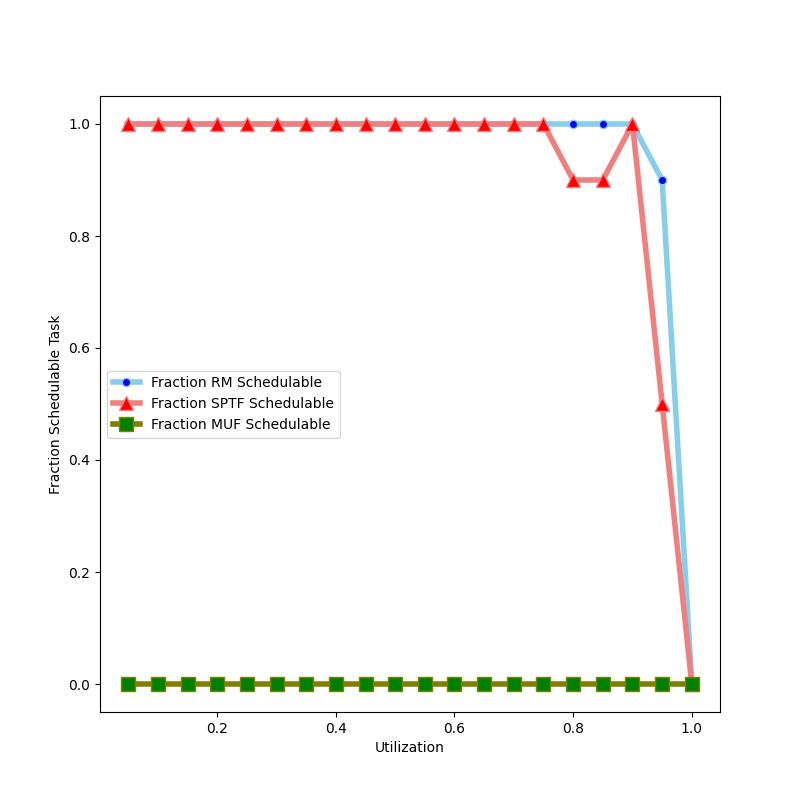
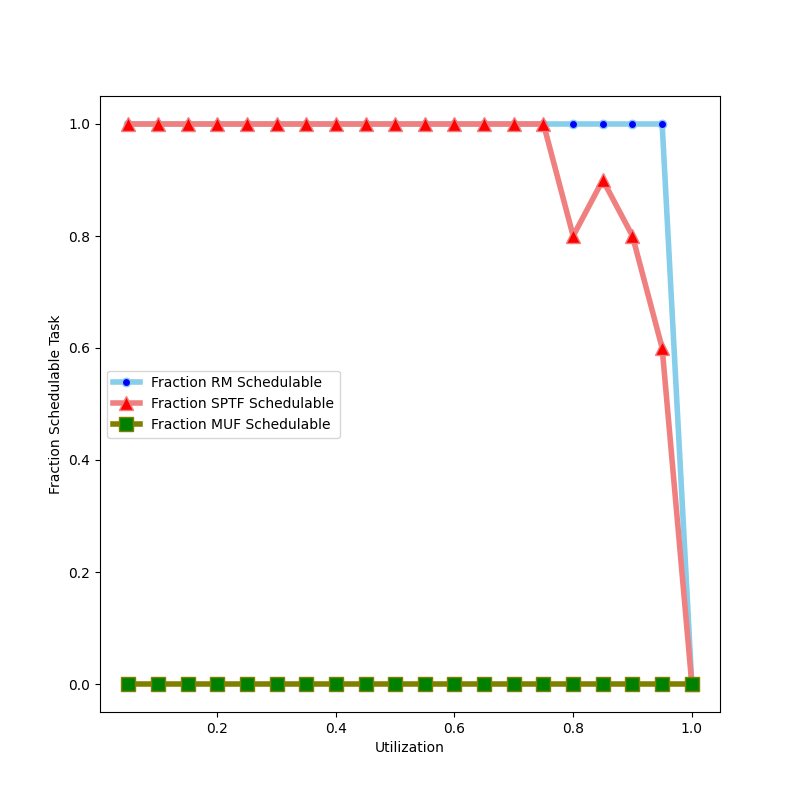
switch to log method for random generation

Changed region(s): [[0.6562, 0.125, 0.875, 0.8125]]

diff --git a/driver.py b/driver.py
@@ -3,6 +3,7 @@ from random_vector_generator import *
 from task_set import *
 import matplotlib.pyplot as plt
 import math
+from job import Job
 
 def RTASchedulable(priority_sorted_task_set):
 
@@ -54,6 +55,96 @@ def MUF_RTA_Schedulable(task_set):
     return RTASchedulable(task_set)
 
 
+# def Simulation(n, task_set):
+
+#     num_time_units = 20
+#     arrived_jobs
+#     for t in range(num_time_units + 1):
+        
+
+# def RM_Simulation(n, task_set):
+#     # Sort tasks with ascending order of periods
+#     task_set.sort(key=lambda task: task.Period)
+#     return Simulation(n, task_set)
+
+# def SPTF_Simulation(n, task_set):
+#     # Sort tasks with ascending order of execution times
+#     task_set.sort(key=lambda task: task.WCET)
+#     return Simulation(n, task_set)
+
+# def MUF_Simulation(n, task_set):
+#     # Sort tasks with descending order of utilization
+#     task_set.sort(key=lambda task: task.Utilization, reverse=True)
+#     return Simulation(n, task_set)
+
+# def simulation():
+
+#     # num_tasks_test_arr = [16]
+#     # num_tasks_test_arr = [8, 16, 32, 64]
+#     task_set_utilizations = [round(0.10 * i, 2) for i in range(1, 11)]
+
+#     num_task_sets = 100 # For Testing
+#     num_time_units = 100000
+
+#     # num_task_sets = 100000
+
+#     num_tasks = 2
+#     print("Num Tasks: {}".format(num_tasks))
+
+#     fraction_RM_successful = [0 for i in range(1, 21)]
+#     fraction_SPTF_successful = [0 for i in range(1, 21)]
+#     fraction_MUF_successful = [0 for i in range(1, 21)]
+    
+#     for j in range(len(task_set_utilizations)):
+
+#         utilization = task_set_utilizations[j]
+#         print("Utilization: {}\n".format(utilization))
+
+#         print("Generating Task Sets")
+#         scatter_arr = np.zeros(shape=(num_task_sets, num_tasks))
+
+#         # Create a list of task sets for current number of tasks        
+#         task_sets = []
+#         for k in range(num_task_sets):
+#             scatter_arr[k] = getUniformVector(num_tasks)
+#             task_sets.append(getTaskSet(scatter_arr[k], utilization))
+
+
+#         print("Start Testing Schedulability at current Utilization")
+#         num_successful_RM_completions = 0
+#         num_successful_SPTF_completions = 0
+#         num_successful_MUF_completions = 0
+#         for l in range(num_task_sets):
+#             num_successful_RM_completions += RM_RTA_Schedulable(num_tasks, task_sets[l])
+#             num_successful_SPTF_completions += SPTF_RTA_Schedulable(num_tasks, task_sets[l])
+#             num_successful_MUF_completions += MUF_RTA_Schedulable(num_tasks, task_sets[l])
+
+    
+#         # fraction_RM_successful[j] = float(num_RM_Schedulable) / float(num_task_sets)
+#         # fraction_SPTF_successful[j] = float(num_SPTF_Schedulable) / float(num_task_sets)
+#         # fraction_MUF_successful[j] = float(num_MUF_Schedulable) / float(num_task_sets)
+
+#         # print("Fraction RM Schedulable: {}".format(round(fraction_RM_successful[j], 2)))
+#         # print("Fraction SPTF Schedulable: {}".format(round(fraction_SPTF_successful[j], 2)))
+#         # print("Fraction MUF Schedulable: {}".format(round(fraction_MUF_successful[j], 2)))
+
+#         print("\n-------------------------------------------\n")
+
+#     print("Saving figure for num tasks: {}".format(num_tasks))
+
+#     fig = plt.figure(figsize=(8, 8))
+#     ax = fig.add_subplot(111)
+#     ax.plot(task_set_utilizations, fraction_RM_successful, marker='.', markerfacecolor='blue', markersize=12, color='skyblue', linewidth=4, label="Fraction RM Schedulable")
+#     ax.plot(task_set_utilizations, fraction_SPTF_successful, marker='^',markerfacecolor='red', markersize=10, color='lightcoral', linewidth=4, label="Fraction SPTF Schedulable")
+#     ax.plot(task_set_utilizations, fraction_MUF_successful,marker='s', markerfacecolor='green', markersize=10, color='olive', linewidth=4, label="Fraction MUF Schedulable")
+#     ax.set_xlabel('Utilization')
+#     ax.set_ylabel('Fraction Schedulable Task')
+#     plt.legend(loc="best")
+#     plt.savefig('figs/{}TasksSchedulability.png'.format(num_tasks))
+#         # plt.show()
+#         # ax = fig.add_subplot(111,projection='3d')
+#     print("\n")
+
 def main():
 
     # num_tasks_test_arr = [3]
@@ -61,7 +152,7 @@ def main():
     task_set_utilizations = [round(0.05 * i, 2) for i in range(1, 21)]
 
     
-    num_task_sets = 10 # For Testing
+    # num_task_sets = 10 # For Testing
     # num_task_sets = 100000
     for i in range(len(num_tasks_test_arr)):
 

diff --git a/random_vector_generator.py b/random_vector_generator.py
@@ -3,22 +3,34 @@ import numpy as np
 
 def getNRandom(n=10):
     rands = []
-    for i in range(n-1):
+    for i in range(n):
         rands.append(np.random.uniform(0,1,None))
 
     return rands
 
 def getUniformVector(num_tasks):
     rands = getNRandom(num_tasks)
-    n = num_tasks
-    rands.sort()
-    ret = []
-    for i in range(n):
-        if i == 0:
-            ret.append(rands[i] - 0.)
-        elif i == n - 1:
-            ret.append(1. - rands[i-1])
-        else: 
-            ret.append(rands[i] - rands[i-1])
+    # n = num_tasks
 
-    return ret
+    # y_i = -log(x_i)
+    randys = -1. * np.log(np.array(rands))
+
+    # sum_randys = (y_1 + y_2 + .. y_n)
+    sum_randys = np.sum(randys)
+    # print("Rand ys: ", randys)
+    # print("Sum Rand ys", sum_randys)
+
+    
+    # print(randys)
+    # rands.sort()
+    # ret = []
+    # for i in range(n):
+    #     if i == 0:
+    #         ret.append(rands[i] - 0.)
+    #     elif i == n - 1:
+    #         ret.append(1. - rands[i-1])
+    #     else: 
+    #         ret.append(rands[i] - rands[i-1])
+    # (y1, y2, ... yn) / (y_1 + y_2 + .. y_n)
+    
+    return np.true_divide(randys, sum_randys)

diff --git a/job.py b/job.py
@@ -1,0 +1,38 @@
+
+
+class Job():
+    
+    arrival_time = 0
+    absolute_deadline = 0
+    execution_time = 0
+    executing = False
+    remaining_exec_time = 0
+    priority = 0
+
+    def __init__(self, arrival_time, execution_time, priority, executing=False):
+        self.arrival_time = arrival_time
+        self.absolute_deadline = arrival_time + execution_time
+        self.execution_time = execution_time
+        self.executing = executing
+        self.priority
+        self.remaining_exec_time = execution_time
+
+    def progress_job(self):
+        if self.executing:
+            self.remaining_exec_time -= 1
+
+    def start_job(self, time):
+        self.remaining_exec_time = self.execution_time
+        self.executing = True
+        self.absolute_deadline = time + self.execution_time
+
+    def pause_job(self):
+        self.executing = False
+
+    def resume_job(self):
+        if not self.executing:
+            self.executing = True
+
+    def deadline_missed(self, time):
+        return time > self.absolute_deadline
+        
